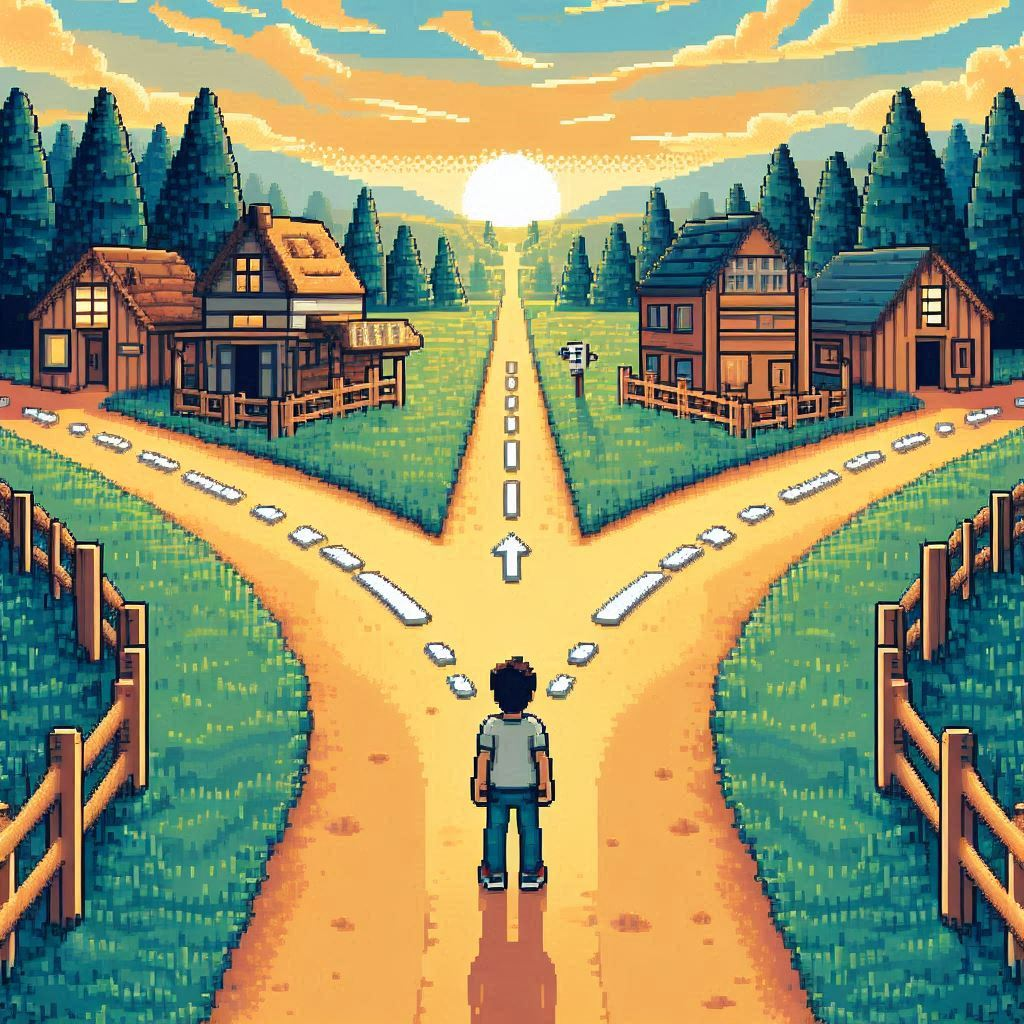
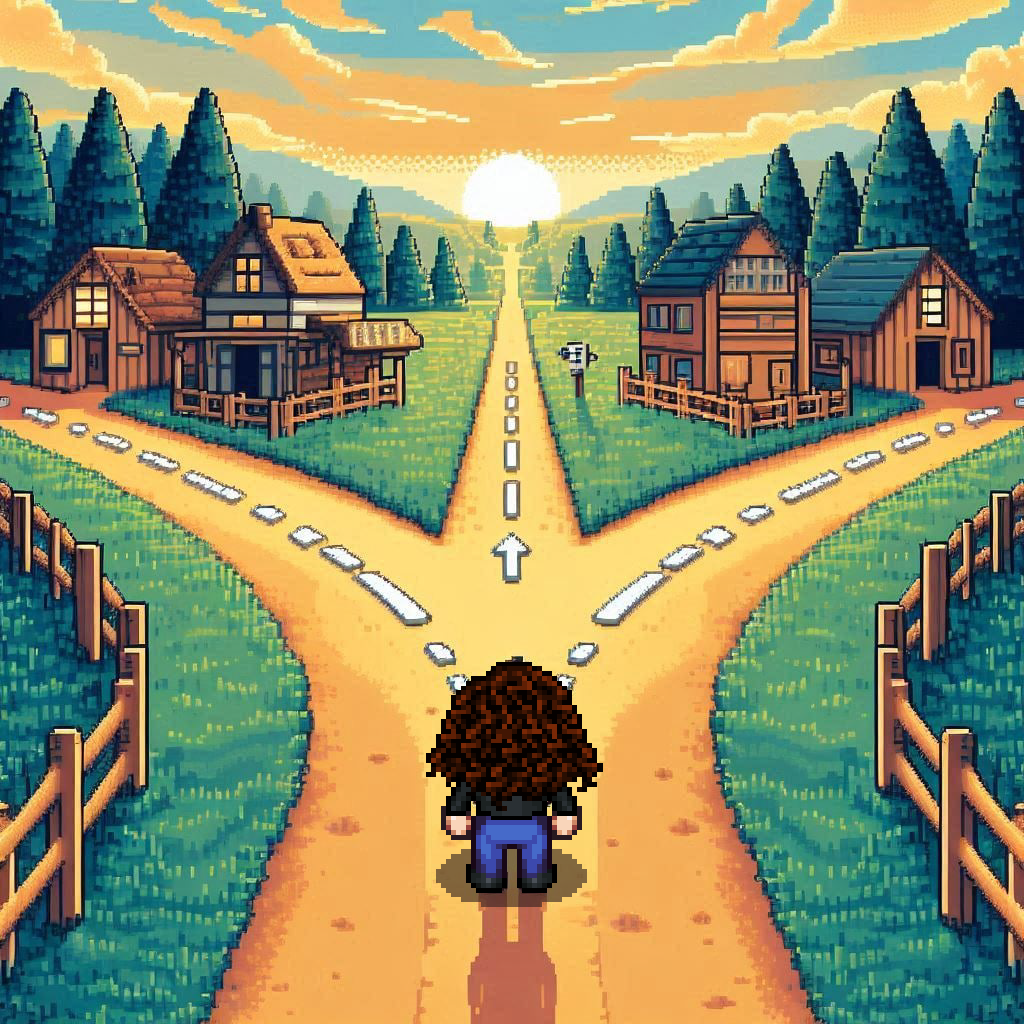
sda

Changed region(s): [[0.4062, 0.625, 0.5938, 0.9062]]

diff --git a/src/scenes/Intro.ts b/src/scenes/Intro.ts
@@ -88,24 +88,48 @@ setupCamera().then(startFaceMesh);
 
 export default class Intro extends Phaser.Scene {
   private lastEmotion: string = "neutro";
+  private bg1: Phaser.Physics.Arcade.Sprite;
+  private introanimation: Phaser.Physics.Arcade.Sprite;
+  private scelta: Phaser.Physics.Arcade.Sprite;
   private a: integer = 0; 
   private b: integer = 0; 
   private c: integer = 0; 
   private z: boolean = true;
+
   constructor() {
     super({ key: "Intro" });
   }
 
   preload(): void {
+    this.load.spritesheet('s1', 'assets/images/animStrada/s1.png', {
+      frameWidth: 768, 
+      frameHeight: 482 
+    });
     this.load.image("bg1", "assets/images/bg/1.png");
+    this.load.image("scelta", "assets/images/bg/scelta.jpg");
   }
 
   create(): void {
-    // Creazione della zona interattiva
+    this.anims.create({
+      key: 's1',
+      frames: this.anims.generateFrameNumbers('s1', { start: 0, end: 3 }), 
+      frameRate: 2,
+      repeat: 0
+      
+  });
+  this.bg1 = this.physics.add.sprite(this.cameras.main.width/2, this.cameras.main.height/2, "bg1").setScale(1.9, 1.1);
+  this.introanimation = this.physics.add.sprite(this.cameras.main.width / 2, this.cameras.main.height / 2, "s1").setVisible(false).setScale(2.5,2.3);
+  // Creazione della zona interattiva
     let interactiveZone1 = this.add.zone(950, 375, 200, 400).setInteractive(); //zona1 strada centrale
     interactiveZone1.on('pointerdown', () => {
       console.log('Zona interattiva (strada centrale) cliccata!');
-      this.scene.start("GamePlay");
+      this.bg1.setVisible(false);
+      this.introanimation.setVisible(true);
+      this.introanimation.anims.play('s1', true);
+      this.time.delayedCall(1800, () => {
+        console.log("Cambia scena ");
+        this.scene.start("GamePlay");
+      });
     });
 
     let interactiveZone2 = this.add.zone(300,600, 400, 300).setInteractive(); //zona2 Strada sinistra
@@ -113,33 +137,35 @@ export default class Intro extends Phaser.Scene {
       this.scene.start("GamePlay");
       console.log('Zona interattiva (strada sinistra) cliccata!');
     });
+
     let interactiveZone3 = this.add.zone(1750,600, 300, 300).setInteractive(); //zona3 Strada destra
     interactiveZone3.on('pointerdown', () => {
       this.scene.start("GamePlay");
       console.log('Zona interattiva (strada destra) cliccata!');
     });
-    this.physics.add.sprite(this.cameras.main.width/2,this.cameras.main.height/2, "bg1").setScale(1.9,1.4)
+
   }
 
   update(): void {
     // Verifica se l'emozione è cambiata e aggiorna il tint dell'NPC
-    if (window.currentEmotion && window.currentEmotion !== this.lastEmotion && this.z ) {
+    if (window.currentEmotion && window.currentEmotion !== this.lastEmotion && this.z) {
       this.lastEmotion = window.currentEmotion;
     }
-    if(this.lastEmotion == "triste"){
-      this.a = this.a + 1;
-    }else if(this.lastEmotion == "neutro"){
-      this.b = this.b + 1;
-    }else if(this.lastEmotion == "felice"){
-      this.c = this.c + 1;
-    }
-    if(this.a >= 10){
-      this.z = false;
-    }    if(this.b >= 10){
-      this.z = false;
-    }    if(this.c >= 10){
-      this.z = false;
+
+    switch (this.lastEmotion) {
+      case "triste":
+        this.a++;
+        break;
+      case "neutro":
+        this.b++;
+        break;
+      case "felice":
+        this.c++;
+        break;
     }
 
+    if (this.a >= 10 || this.b >= 10 || this.c >= 10) {
+      this.z = false;
+    }
   }
 }

diff --git a/src/scenes/dist/Intro.js b/src/scenes/dist/Intro.js
@@ -149,15 +149,34 @@ var Intro = /** @class */ (function (_super) {
         return _this;
     }
     Intro.prototype.preload = function () {
+        this.load.spritesheet('s1', 'assets/images/animStrada/s1.png', {
+            frameWidth: 768,
+            frameHeight: 482
+        });
         this.load.image("bg1", "assets/images/bg/1.png");
+        this.load.image("scelta", "assets/images/bg/scelta.jpg");
     };
     Intro.prototype.create = function () {
         var _this = this;
+        this.anims.create({
+            key: 's1',
+            frames: this.anims.generateFrameNumbers('s1', { start: 0, end: 3 }),
+            frameRate: 2,
+            repeat: 0
+        });
+        this.bg1 = this.physics.add.sprite(this.cameras.main.width / 2, this.cameras.main.height / 2, "bg1").setScale(1.9, 1.1);
+        this.introanimation = this.physics.add.sprite(this.cameras.main.width / 2, this.cameras.main.height / 2, "s1").setVisible(false).setScale(2.5, 2.3);
         // Creazione della zona interattiva
         var interactiveZone1 = this.add.zone(950, 375, 200, 400).setInteractive(); //zona1 strada centrale
         interactiveZone1.on('pointerdown', function () {
             console.log('Zona interattiva (strada centrale) cliccata!');
-            _this.scene.start("GamePlay");
+            _this.bg1.setVisible(false);
+            _this.introanimation.setVisible(true);
+            _this.introanimation.anims.play('s1', true);
+            _this.time.delayedCall(1800, function () {
+                console.log("Cambia scena ");
+                _this.scene.start("GamePlay");
+            });
         });
         var interactiveZone2 = this.add.zone(300, 600, 400, 300).setInteractive(); //zona2 Strada sinistra
         interactiveZone2.on('pointerdown', function () {
@@ -169,29 +188,24 @@ var Intro = /** @class */ (function (_super) {
             _this.scene.start("GamePlay");
             console.log('Zona interattiva (strada destra) cliccata!');
         });
-        this.physics.add.sprite(this.cameras.main.width / 2, this.cameras.main.height / 2, "bg1").setScale(1.9, 1.4);
     };
     Intro.prototype.update = function () {
         // Verifica se l'emozione è cambiata e aggiorna il tint dell'NPC
         if (window.currentEmotion && window.currentEmotion !== this.lastEmotion && this.z) {
             this.lastEmotion = window.currentEmotion;
         }
-        if (this.lastEmotion == "triste") {
-            this.a = this.a + 1;
+        switch (this.lastEmotion) {
+            case "triste":
+                this.a++;
+                break;
+            case "neutro":
+                this.b++;
+                break;
+            case "felice":
+                this.c++;
+                break;
         }
-        else if (this.lastEmotion == "neutro") {
-            this.b = this.b + 1;
-        }
-        else if (this.lastEmotion == "felice") {
-            this.c = this.c + 1;
-        }
-        if (this.a >= 10) {
-            this.z = false;
-        }
-        if (this.b >= 10) {
-            this.z = false;
-        }
-        if (this.c >= 10) {
+        if (this.a >= 10 || this.b >= 10 || this.c >= 10) {
             this.z = false;
         }
     };

diff --git a/src/dist/GameData.js b/src/dist/GameData.js
@@ -1,0 +1,62 @@
+"use strict";
+exports.__esModule = true;
+exports.GameData = void 0;
+exports.GameData = {
+    globals: {
+        gameWidth: 1920,
+        gameHeight: 1080,
+        bgColor: "#ffffff",
+        debug: false
+    },
+    preloader: {
+        bgColor: "ffffff",
+        image: "logo",
+        imageX: 1920 / 2,
+        imageY: 1080 / 2,
+        loadingText: "Caricamento...",
+        loadingTextFont: "roboto",
+        loadingTextComplete: "Tappa/clicca per iniziare!!",
+        loadingTextY: 800,
+        loadingBarColor: 0xff0000,
+        loadingBarY: 630
+    },
+    spritesheets: [],
+    images: [
+        { name: "player", path: "assets/images/player.png" },
+        { name: "logo", path: "assets/images/logoS.png" },
+        { name: "bg-1", path: "assets/images/bg/1.png" },
+        { name: "walk_1", path: "assets/images/player/walk_1.png" },
+        { name: "walk_2", path: "assets/images/player/walk_2.png" },
+        { name: "walk_3", path: "assets/images/player/walk_3.png" },
+        { name: "walk_4", path: "assets/images/player/walk_4.png" },
+        { name: "s1", path: "assets/images/animStrada/s1.png" },
+        { name: "s2", path: "assets/images/animStrada/s2.png" },
+        { name: "s3", path: "assets/images/animStrada/s3.png" },
+        { name: "scelta", path: "assets/images/bg/scelta.png" },
+    ],
+    atlas: [],
+    sounds: [
+    /*{
+    name: "music",
+    paths: ["assets/sounds/intro.ogg", "assets/sounds/intro.m4a"],
+    volume: 1,
+    loop: true,
+    frame: 1,
+  }*/
+    ],
+    videos: [
+    // { name: "video", path: "/assets/video/video.mp4" },
+    ],
+    audios: [
+    /*{
+    name: "sfx",
+    jsonpath: "assets/sounds/sfx.json",
+    paths: ["assets/sounds/sfx.ogg", "assets/sounds/sfx.m4a"],
+    instances: 10,
+  }*/
+    ],
+    scripts: [],
+    fonts: [{ key: "ralewayRegular", path: "assets/fonts/raleway.regular.ttf", type: "truetype" }],
+    webfonts: [{ key: 'Nosifer' }, { key: 'Roboto' }, { key: 'Press+Start+2P' }, { key: 'Rubik+Doodle+Shadow' }, { key: 'Rubik+Glitch' }],
+    bitmapfonts: []
+};

diff --git a/src/scenes/dist/GamePlay.js b/src/scenes/dist/GamePlay.js
@@ -21,19 +21,31 @@ var GamePlay = /** @class */ (function (_super) {
         }) || this;
     }
     GamePlay.prototype.preload = function () {
-        this.load.spritesheet('player', 'assets/images/player.png', {
+        this.load.spritesheet('walk_1', 'assets/images/player/walk_1.png', {
+            frameWidth: 64,
+            frameHeight: 64
+        });
+        this.load.spritesheet('walk_2', 'assets/images/player/walk_2.png', {
+            frameWidth: 229,
+            frameHeight: 272
+        });
+        this.load.spritesheet('walk_3', 'assets/images/player/walk_3.png', {
+            frameWidth: 229,
+            frameHeight: 272
+        });
+        this.load.spritesheet('walk_4', 'assets/images/player/walk_4.png', {
             frameWidth: 229,
             frameHeight: 272
         });
     };
     GamePlay.prototype.create = function () {
-        this.player = this.physics.add.sprite(this.cameras.main.width / 2, this.cameras.main.height / 2, "player").setScale(0.5, 0.5);
+        this.player = this.physics.add.sprite(this.cameras.main.width / 2, this.cameras.main.height / 2, "walk_1");
         this.key = this.input.keyboard.createCursorKeys();
         this.player.setCollideWorldBounds(true); //limita il player ai limiti dello schermo
         this.physics.world.createDebugGraphic(); // fa vedere le hitbox
         this.anims.create({
             key: 'walk',
-            frames: this.anims.generateFrameNumbers('player', { start: 0, end: 3 }),
+            frames: this.anims.generateFrameNumbers('walk_1', { start: 0, end: 8 }),
             frameRate: 10,
             repeat: -1
         });

diff --git a/src/scenes/GamePlay.ts b/src/scenes/GamePlay.ts
@@ -11,20 +11,32 @@ export default class GamePlay extends Phaser.Scene {
   }
 
   preload() {
-    this.load.spritesheet('player', 'assets/images/player.png', {
-      frameWidth: 229, 
-      frameHeight: 272 
+    this.load.spritesheet('walk_1', 'assets/images/player/walk_1.png', {
+      frameWidth: 64, 
+      frameHeight: 64 
   });
+  this.load.spritesheet('walk_2', 'assets/images/player/walk_2.png', {
+    frameWidth: 229, 
+    frameHeight: 272 
+});
+this.load.spritesheet('walk_3', 'assets/images/player/walk_3.png', {
+  frameWidth: 229, 
+  frameHeight: 272 
+});
+this.load.spritesheet('walk_4', 'assets/images/player/walk_4.png', {
+  frameWidth: 229, 
+  frameHeight: 272 
+});
   }
 
   create() {
-    this.player = this.physics.add.sprite(this.cameras.main.width / 2, this.cameras.main.height / 2, "player").setScale(0.5,0.5);
+    this.player = this.physics.add.sprite(this.cameras.main.width / 2, this.cameras.main.height / 2, "walk_1")
     this.key = this.input.keyboard.createCursorKeys();
     this.player.setCollideWorldBounds(true); //limita il player ai limiti dello schermo
     this.physics.world.createDebugGraphic(); // fa vedere le hitbox
     this.anims.create({
       key: 'walk',
-      frames: this.anims.generateFrameNumbers('player', { start: 0, end: 3 }), 
+      frames: this.anims.generateFrameNumbers('walk_1', { start: 0, end: 8 }), 
       frameRate: 10,
       repeat: -1
   });

diff --git a/src/GameData.ts b/src/GameData.ts
@@ -26,10 +26,15 @@ export let GameData: gameData = {
   images: [
     { name: "player", path: "assets/images/player.png"},
     {name: "logo",path: "assets/images/logoS.png"},
-    { name: "bg-1", path: "assets/images/bg/1.png" },
-
-
-
+    { name: "bg-1", path: "assets/images/bg/1.png" },   
+    { name: "walk_1", path: "assets/images/player/walk_1.png" },
+    { name: "walk_2", path: "assets/images/player/walk_2.png" },
+    { name: "walk_3", path: "assets/images/player/walk_3.png" },
+    { name: "walk_4", path: "assets/images/player/walk_4.png" },
+    { name: "s1", path: "assets/images/animStrada/s1.png" },
+    { name: "s2", path: "assets/images/animStrada/s2.png" },
+    { name: "s3", path: "assets/images/animStrada/s3.png" },
+    { name: "scelta", path: "assets/images/bg/scelta.png" },
   ],
   atlas: [],
   sounds: [
